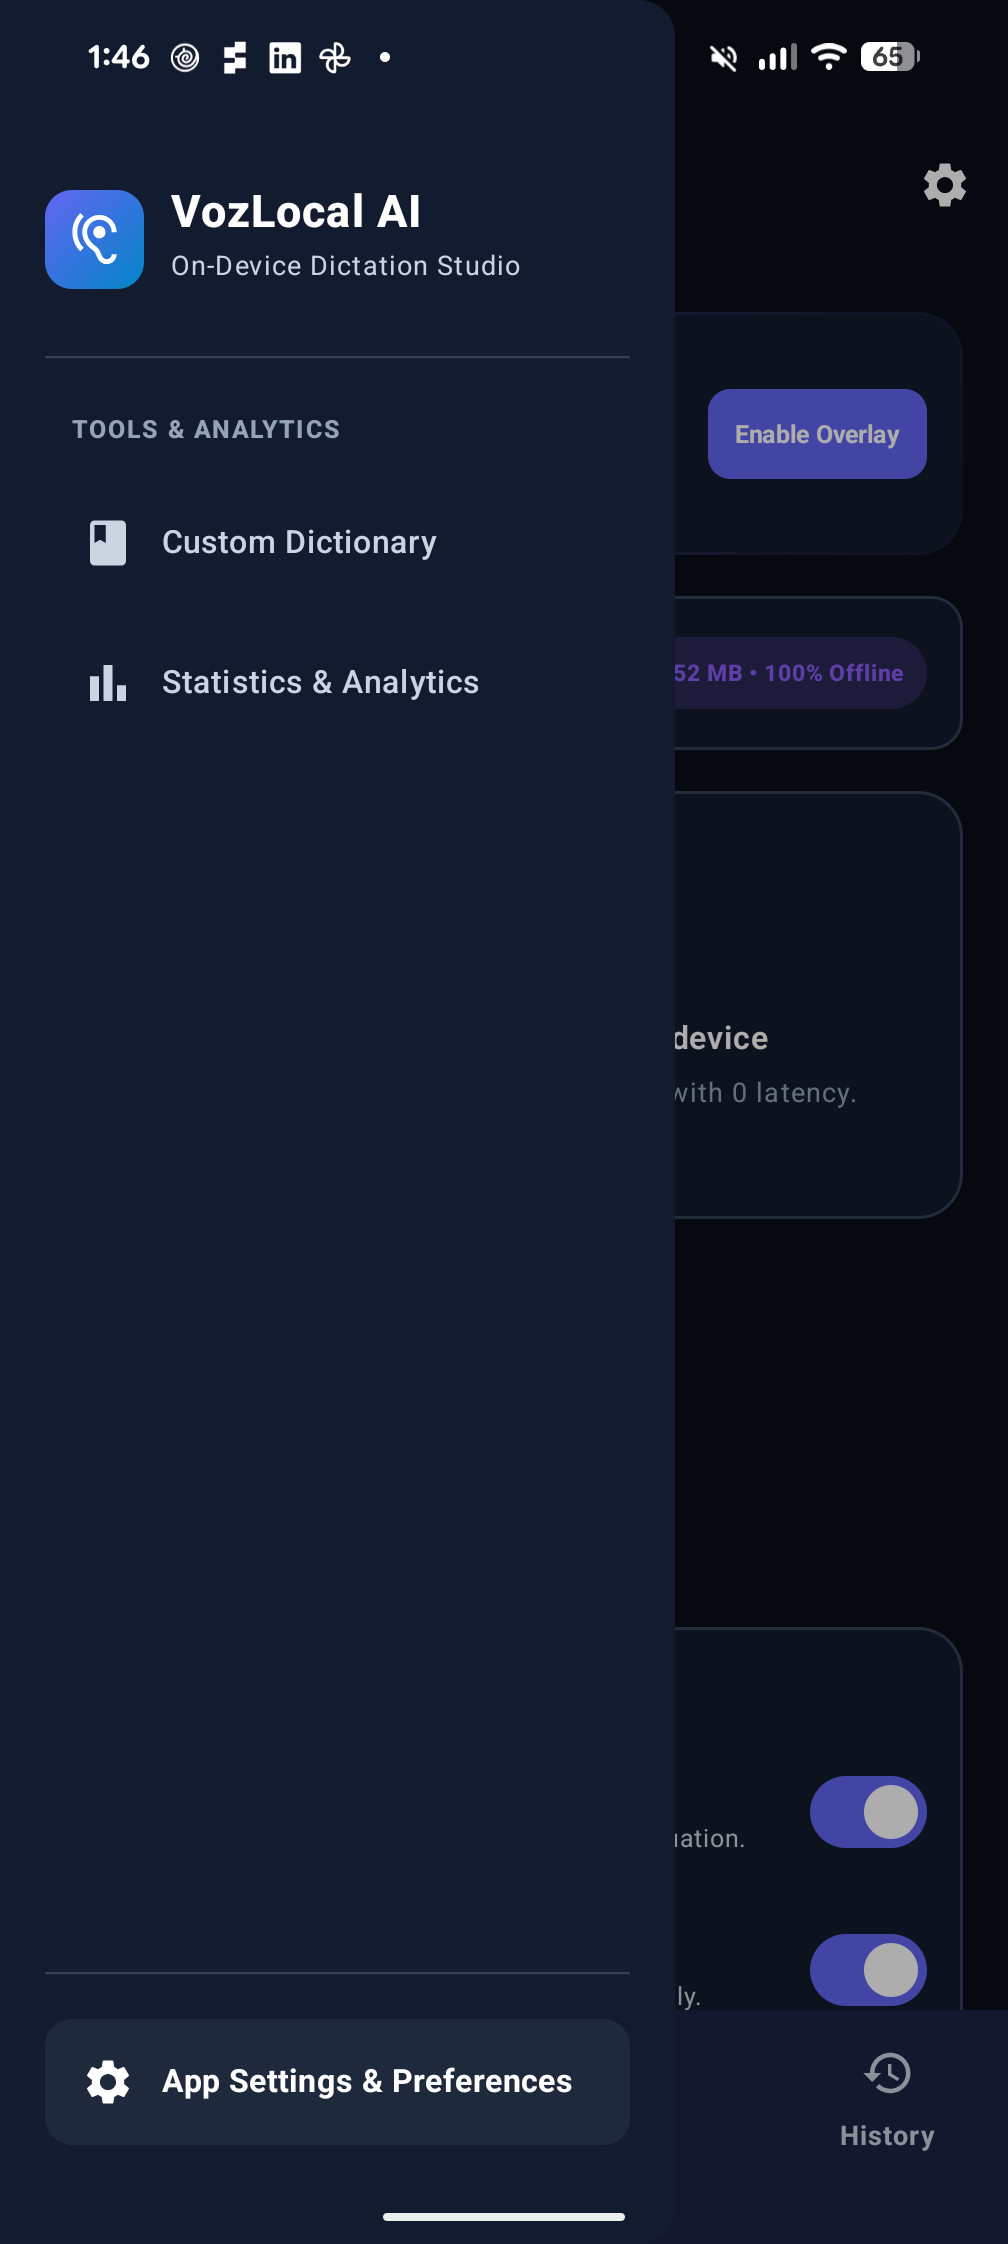
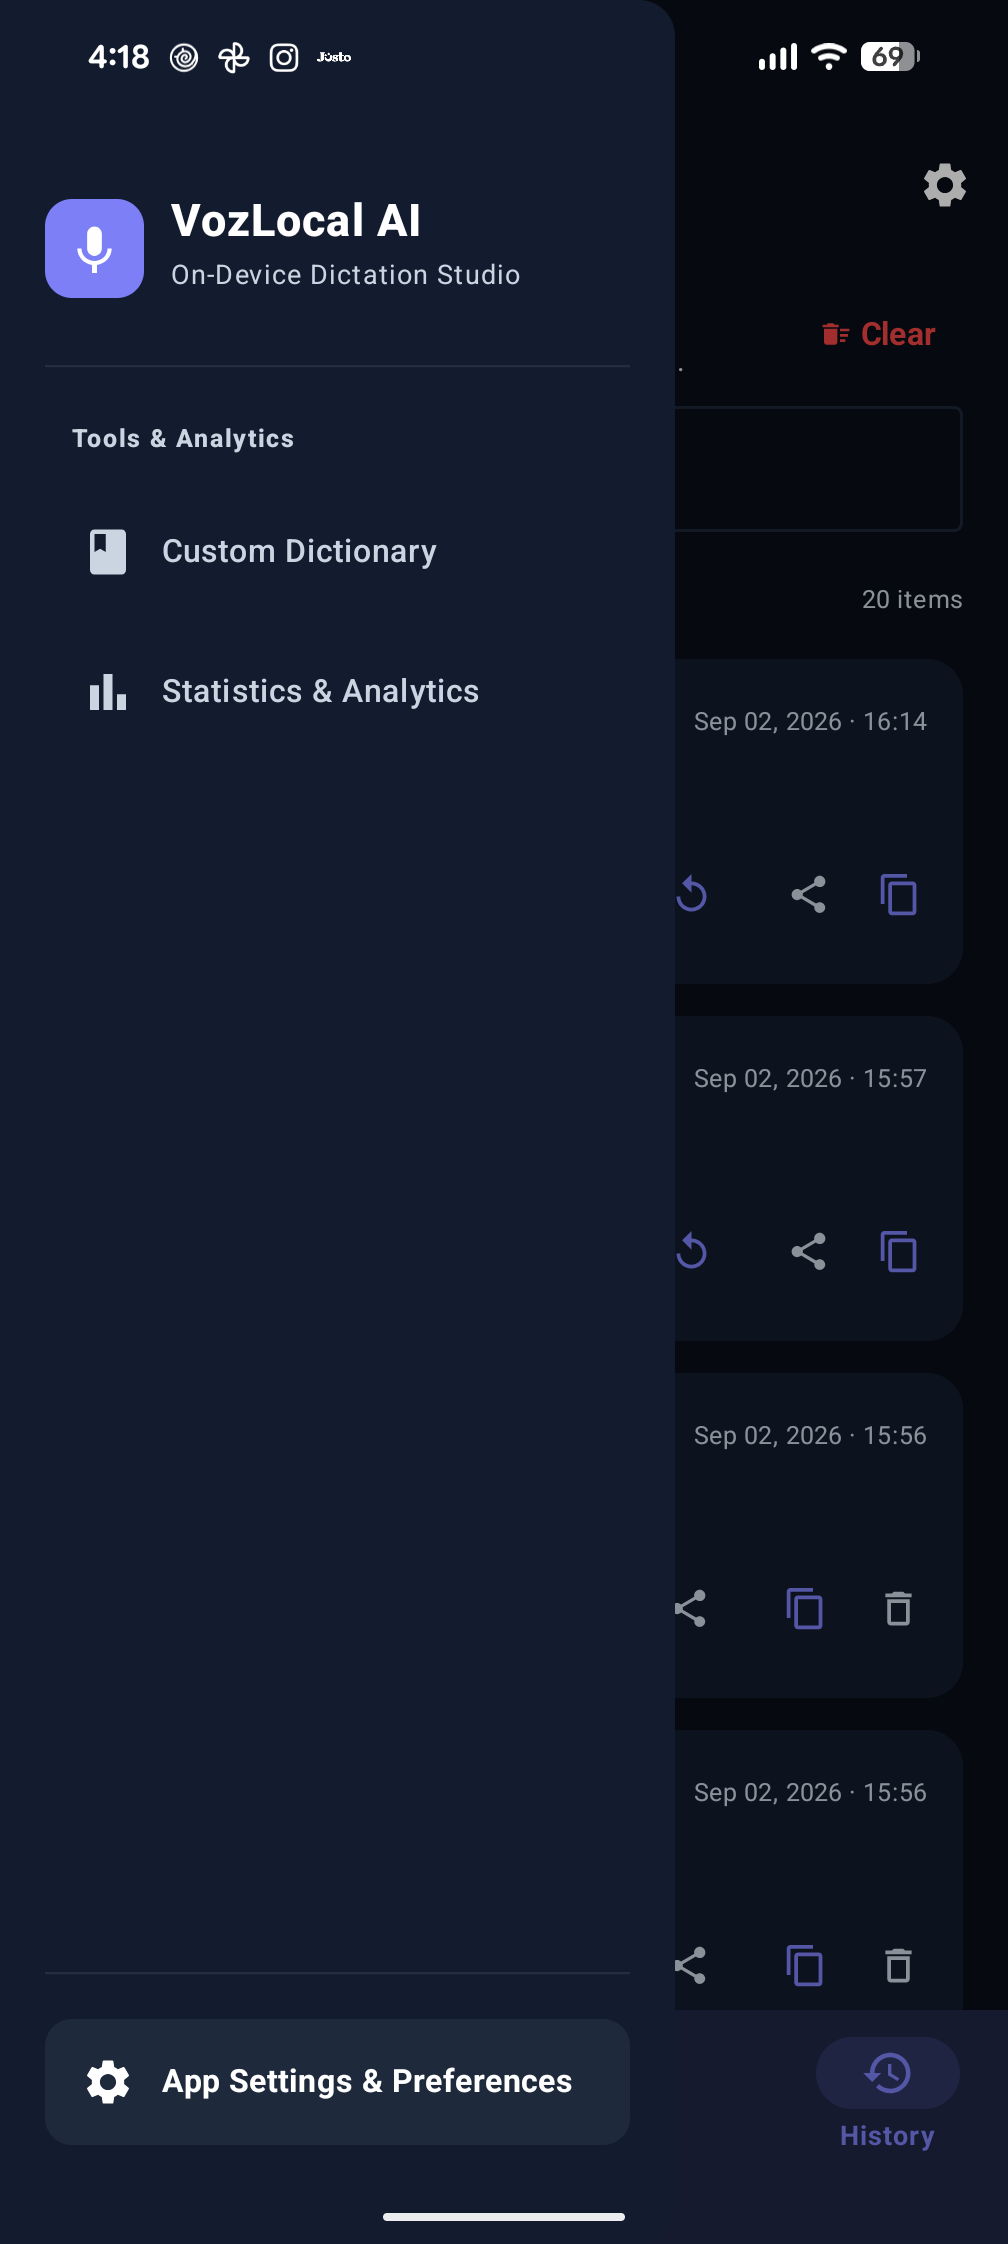
docs: refresh screenshots directly from Pixel 8 Pro and update technical specs in readme

diff --git a/README.md b/README.md
@@ -72,9 +72,9 @@ VozLocal System Architecture (v2)
 ┌─────────▼──────────────────────────▼──────────────────────────────▼─────────┐
 │                   WhisperEngine (com.whispercpp.whisper.WhisperContext)      │
 │                  - Single-thread executor (JNI constraint)                   │
-│                  - WhisperLib.fullTranscribeWithLang() — language hint skips │
-│                    ~200-500ms auto-detect overhead                            │
-│                  - adaptive thread count with optional JVM override           │
+│                  - WhisperLib.fullTranscribeWithParams() — language hint,    │
+│                    dynamic audio_ctx, temperature fallback, and noTimestamps │
+│                  - adaptive thread count with Tensor G3 & 8+ core optimization│
 │                  - Cleaner-based backstop cleanup (no finalize()/runBlocking)│
 └──────────────────────────────────┬──────────────────────────────────────────┘
                                    │
@@ -126,13 +126,13 @@ A `SharedPreferences.OnSharedPreferenceChangeListener` is registered in the serv
 | **Language** | Kotlin 2.2.10 & C++ (JNI, vendored whisper.cpp) |
 | **UI Framework** | Jetpack Compose (Material 3, BOM 2024.09.00) |
 | **Architecture** | MVVM, Kotlin Coroutines, `StateFlow`, process-scoped singletons |
-| **STT Engine** | `whisper.cpp` (q8_0 / q5_0 GGML quantized) |
+| **STT Engine** | `whisper.cpp` (q8_0 / q5_1 GGML quantized with ARMv8.2-A / ARMv9-A `+dotprod` and `+i8mm` hardware acceleration, dynamic `audio_ctx`) |
 | **Text Cleanup** | Local rule-based Kotlin engine (`QwenEngine`) — Minimal / Balanced / Aggressive modes, pure Kotlin, no model file |
 | **Persistence** | Room 2.7.0 (version 2, with stub `MIGRATION_1_2`, no destructive fallback) |
 | **Audio Capture** | `AudioRecord` API (16 kHz mono PCM, `VOICE_RECOGNITION` source) |
 | **Audio Decoding** | `MediaCodec` + `MediaExtractor`; drains output EOS, handles decoder PCM format changes, downmixes channels, and resamples to 16 kHz |
 | **Networking** | OkHttp 4.x (model downloads only; offline thereafter) |
-| **Global Overlay** | Android `AccessibilityService` + `WindowManager` (display-cutout aware) |
+| **Global Overlay** | Android `AccessibilityService` + `WindowManager` (edge docking, position persistence, haptic feedback, display-cutout aware) |
 | **Build** | AGP 9.3.1, R8 minify + resource shrink **enabled** for release |
 
 ---
@@ -187,7 +187,7 @@ For accuracy-first use, benchmark `large-v3-turbo q5_0` against `small q8_0` on 
 ### Installation & Build
 
 ```bash
-git clone https://github.com/your-username/voz-local.git
+git clone https://github.com/lander16/voz-local.git
 cd voz-local
 cp .env.example .env          # optional, only if you override build config
 ./gradlew assembleDebug
@@ -234,7 +234,8 @@ A "Skip Setup & Explore App" option is provided; if you skip, a persistent banne
 - **Language** — the same set as in the Dictate tab.
 - **Post-processing** — Smart pause correction, auto-capitalization, dictionary, local cleanup mode (Minimal / Balanced / Aggressive), spoken punctuation commands, and optional VAD. The VAD model downloads only when you explicitly request it. These settings are persisted to SharedPreferences.
 - **Overlay** — show the floating button only on text fields and select sensitive apps where it must never appear.
-- **History** — opt-out of saving transcripts, or cap history at 5 / 10 / 20 / 50 / unlimited.
+- **History & Data Management** — opt-out of saving transcripts, cap history limit, or one-tap export your entire transcription history to Markdown/Text via the Android sharesheet.
+- **Privacy & Security** — view the in-app "Privacy Policy & Offline Guarantee" modal dialog confirming zero cloud telemetry and local model execution.
 - **Done** — closes the sheet (settings are saved instantly on toggle).
 
 ---
